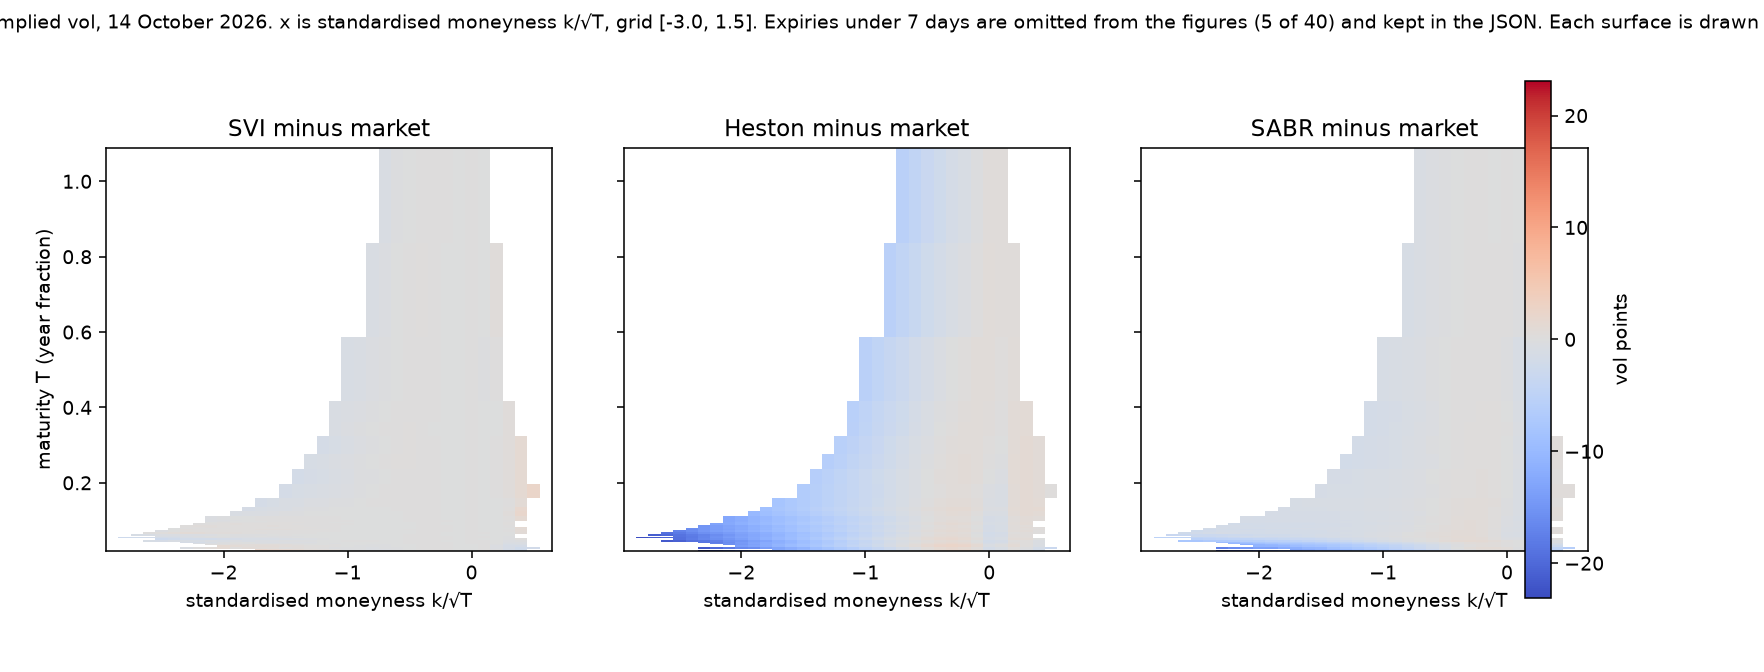
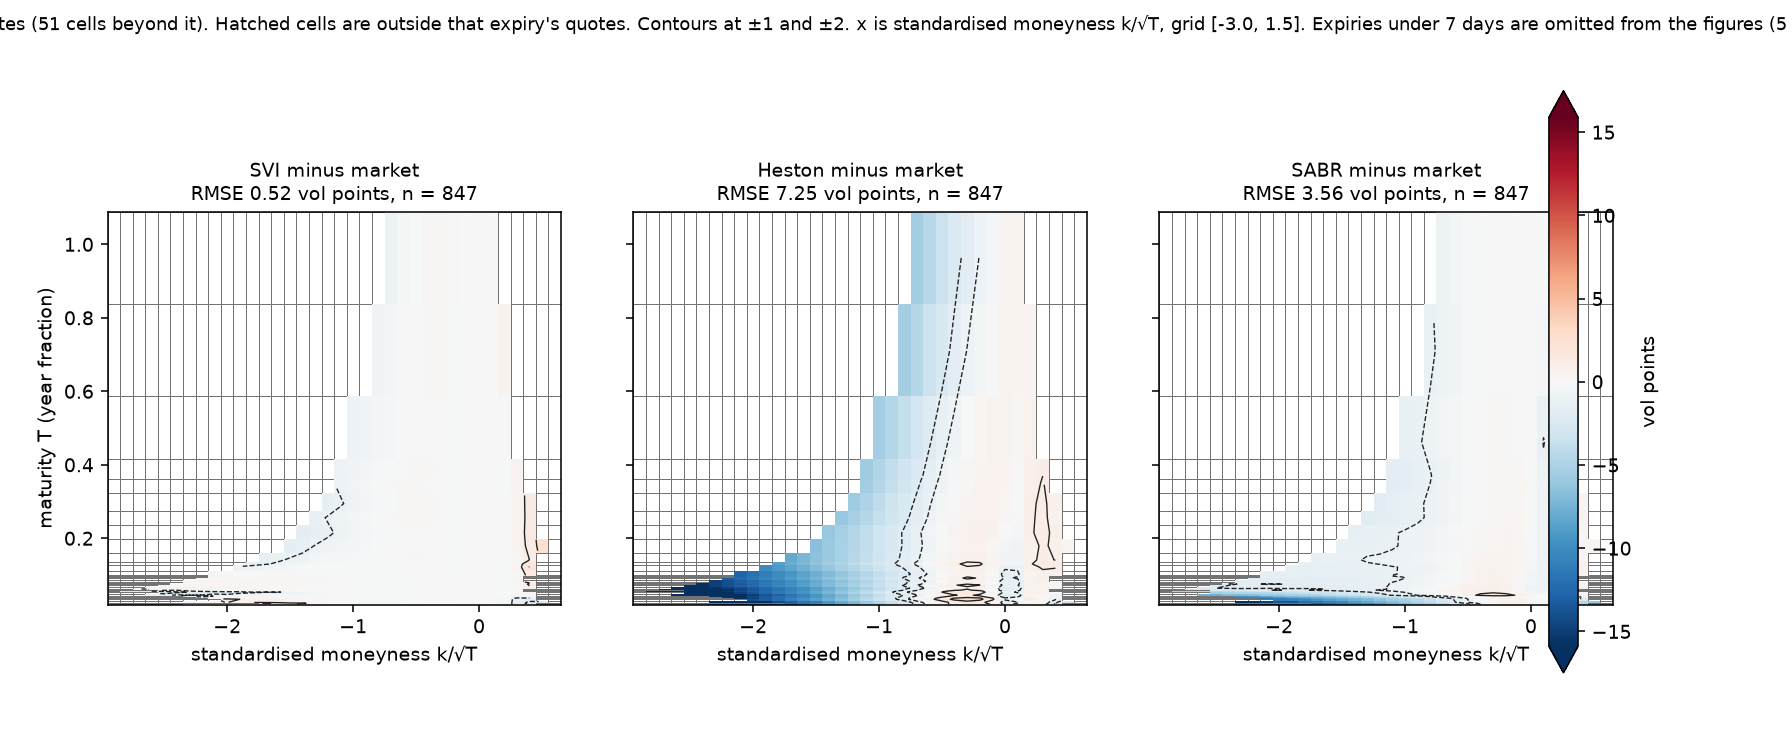
Scale the IV error heatmap to the 98th percentile
The colour limit is the pooled in-quote absolute error on the same
standardised-moneyness grid as the gallery, so a few large cells no
longer wash out the rest. Unquoted cells are hatched.

diff --git a/docs/figures/surfaces_gallery.py b/docs/figures/surfaces_gallery.py
@@ -12,7 +12,9 @@ vertical scale, set to the values actually drawn.
 The market surface in the picture is a light Gaussian smooth along
 ``k / sqrt(T)``. The smooth is display only. The raw quotes are the
 points, and the error tables use the unsmoothed interpolation on the
-full book, including the short expiries.
+full book, including the short expiries. The error heatmap uses the
+same figure domain. Its colour scale is the 98th percentile of the
+absolute in-quote error, not the largest cell.
 
 Heston and SABR are fit on the smile, ``|k| <= 0.4`` and at most 11 strikes
 an expiry, the same cut as the calibration figures. Raw SVI uses every
@@ -45,7 +47,7 @@ import numpy as np
 import pandas as pd
 import plotly.graph_objects as go
 from matplotlib.cm import ScalarMappable
-from matplotlib.colors import Normalize
+from matplotlib.colors import ListedColormap, Normalize
 
 from volsurface import bs, chains
 from volsurface.core.market import market_data_from_snapshot
@@ -85,6 +87,9 @@ M_STEP = 0.1
 IV_LO = 0.05
 IV_HI = 0.90
 IV_CAP = 1.25
+# Error heatmap. The limit is a high percentile of |error|, not the maximum.
+ERROR_PERCENTILE = 98.0
+ERROR_KEYS = ("svi", "heston", "sabr")
 MARK_HIGH = "#9b2335"
 MARK_LOW = "#1f4e79"
 
@@ -772,6 +777,7 @@ def summary_numbers(built: dict) -> dict:
         "implied_vol_axis": [float(display["iv_axis"][0]), float(display["iv_axis"][1])],
         "local_vol_axis": [float(display["local_axis"][0]), float(display["local_axis"][1])],
         "clips": _display_clips(display),
+        "error_heatmap": summarise_errors(error_gaps(display)),
     }
     return numbers
 
@@ -1061,51 +1067,163 @@ def write_pngs(built: dict, fig_dir: Path) -> None:
     _write_error_heatmap(built, fig_dir)
 
 
-def _write_error_heatmap(built: dict, fig_dir: Path) -> None:
-    """Model minus unsmoothed market, on the same domain as the 3D figures."""
-    display = built["display"]
+def error_colour_limit(abs_errors: np.ndarray, percentile: float = ERROR_PERCENTILE) -> float:
+    """Symmetric colour limit from a high percentile of ``|error|``, in vol points.
+
+    A handful of large cells must not set the scale. An empty sample falls
+    back to 1 vol point.
+    """
+    if abs_errors.size == 0:
+        return 1.0
+    limit = float(np.quantile(np.asarray(abs_errors, dtype=float), percentile / 100.0))
+    if not np.isfinite(limit) or limit <= 0.0:
+        return 1.0
+    return limit
+
+
+def error_gaps(display: dict) -> dict[str, np.ndarray]:
+    """Model minus unsmoothed market, in vol points, on the figure grid.
+
+    Cells outside that expiry's quotes, and cells with no finite pair, are NaN.
+    """
     sheets = {sheet.key: sheet for sheet in display["sheets"]}
     market = display["market_raw"]
     quoted = display["quoted"]
-    keys = ("svi", "heston", "sabr")
-    gaps = []
-    for key in keys:
+    gaps = {}
+    for key in ERROR_KEYS:
         gap = 100.0 * (sheets[key].z - market)
-        gap = np.ma.array(gap, mask=~quoted | ~np.isfinite(gap))
-        gaps.append(gap)
-    finite = np.concatenate([gap.compressed() for gap in gaps])
-    limit = 1.0 if finite.size == 0 else float(np.max(np.abs(finite)))
-    if limit == 0.0:
-        limit = 1.0
-    fig, axes = plt.subplots(1, 3, figsize=(12.6, 4.8), sharey=True)
+        gaps[key] = np.where(quoted & np.isfinite(gap), gap, np.nan)
+    return gaps
+
+
+def summarise_errors(gaps: dict[str, np.ndarray]) -> dict:
+    """Percentile colour limit and the in-quote RMSE of each panel."""
+    panels = {}
+    pieces = []
+    for key in ERROR_KEYS:
+        values = gaps[key][np.isfinite(gaps[key])]
+        pieces.append(np.abs(values))
+        panels[key] = {
+            "n": int(values.size),
+            "rmse_vol_points": None if values.size == 0 else float(np.sqrt(np.mean(values**2))),
+            "max_abs_vol_points": None if values.size == 0 else float(np.max(np.abs(values))),
+            "p98_abs_vol_points": None if values.size == 0 else error_colour_limit(np.abs(values)),
+        }
+    pooled = np.concatenate(pieces) if pieces else np.array([], dtype=float)
+    raw = error_colour_limit(pooled)
+    stated = _stated_limit(raw)
+    beyond = int(np.sum(pooled > stated)) if pooled.size else 0
+    return {
+        "percentile": ERROR_PERCENTILE,
+        "limit_vol_points": stated,
+        "limit_raw": raw,
+        "n_errors": int(pooled.size),
+        "n_beyond_limit": beyond,
+        "panels": panels,
+    }
+
+
+def _limit_text(limit: float) -> str:
+    """Digits for the caption. A limit under 0.01 keeps four places so it does not print as 0."""
+    text = f"{limit:.2f}"
+    if float(text) <= 0.0:
+        return f"{limit:.4f}"
+    return text
+
+
+def _stated_limit(raw: float) -> float:
+    """Round the colour limit to the digits the caption prints. Never round it to zero."""
+    stated = float(_limit_text(raw))
+    return stated if stated > 0.0 else raw
+
+
+def _hatch_unquoted(ax, m: np.ndarray, maturities: np.ndarray, show: np.ndarray) -> None:
+    """White hatched cells where the error is not drawn. White itself means zero."""
+    hidden = np.ma.array(np.ones(show.shape, dtype=float), mask=show)
+    cells = ax.pcolormesh(
+        m,
+        maturities,
+        hidden,
+        shading="nearest",
+        cmap=ListedColormap(["white"]),
+        vmin=0.0,
+        vmax=1.0,
+        zorder=1,
+    )
+    cells.set_hatch("////")
+    cells.set_edgecolor("0.45")
+    cells.set_linewidth(0.3)
+
+
+def _write_error_heatmap(built: dict, fig_dir: Path) -> None:
+    """Model minus unsmoothed market, on the same domain as the 3D figures."""
+    display = built["display"]
+    gaps = error_gaps(display)
+    stats = summarise_errors(gaps)
+    limit = float(stats["limit_vol_points"])
     titles = {
         "svi": "SVI minus market",
         "heston": "Heston minus market",
         "sabr": "SABR minus market",
     }
+    levels = [level for level in (-2.0, -1.0, 1.0, 2.0) if abs(level) < limit]
     m = display["m"]
     maturities = display["maturities"]
-    for ax, key, gap in zip(axes, keys, gaps, strict=True):
+    fig, axes = plt.subplots(1, 3, figsize=(12.8, 5.4), sharey=True)
+    mesh = None
+    for ax, key in zip(axes, ERROR_KEYS, strict=True):
+        gap = gaps[key]
+        show = np.isfinite(gap)
         ax.set_facecolor("white")
+        _hatch_unquoted(ax, m, maturities, show)
         mesh = ax.pcolormesh(
             m,
             maturities,
-            gap,
-            cmap="coolwarm",
+            np.ma.array(gap, mask=~show),
+            cmap="RdBu_r",
             vmin=-limit,
             vmax=limit,
             shading="nearest",
+            zorder=2,
         )
+        if levels and np.any(show):
+            ax.contour(
+                m,
+                maturities,
+                gap,
+                levels=levels,
+                colors="#222222",
+                linewidths=0.7,
+                zorder=3,
+            )
+        panel = stats["panels"][key]
+        rmse = panel["rmse_vol_points"]
+        if rmse is None:
+            note = f"n = {panel['n']}"
+        else:
+            note = f"RMSE {rmse:.2f} vol points, n = {panel['n']}"
         ax.set_xlim(float(display["m_view"][0]), float(display["m_view"][1]))
         ax.set_xlabel("standardised moneyness k/√T")
-        ax.set_title(titles[key])
+        ax.set_title(f"{titles[key]}\n{note}", fontsize=10)
     axes[0].set_ylabel("maturity T (year fraction)")
-    fig.colorbar(mesh, ax=axes, fraction=0.046, pad=0.04, label="vol points")
+    extend = "both" if stats["n_beyond_limit"] else "neither"
+    fig.colorbar(mesh, ax=axes, fraction=0.046, pad=0.04, label="vol points", extend=extend)
+    drawn = sorted({abs(level) for level in levels})
+    if drawn:
+        contour_note = " Contours at " + " and ".join(f"±{level:.0f}" for level in drawn) + "."
+    else:
+        contour_note = ""
     fig.suptitle(
-        f"Model minus unsmoothed SPX implied vol, {built['date']}. {_domain_caption(built)}",
-        fontsize=10,
+        f"Model minus unsmoothed SPX implied vol, {built['date']}. "
+        f"Colour saturates at ±{_limit_text(limit)} vol points, the {ERROR_PERCENTILE:.0f}th "
+        f"percentile of |error| inside the quotes "
+        f"({stats['n_beyond_limit']} cells beyond it). "
+        f"Hatched cells are outside that expiry's quotes.{contour_note} "
+        f"{_domain_caption(built)} "
+        "The RMSE on each panel is this grid, not the full-book table.",
+        fontsize=9,
     )
-    fig.subplots_adjust(left=0.06, right=0.90, bottom=0.18, top=0.78, wspace=0.16)
+    fig.subplots_adjust(left=0.06, right=0.90, bottom=0.20, top=0.72, wspace=0.16)
     fig.savefig(fig_dir / "p2_surface_iv_error.png", dpi=140)
     plt.close(fig)
 

diff --git a/tests/test_surface_gallery.py b/tests/test_surface_gallery.py
@@ -75,6 +75,15 @@ def test_display_grid_drops_short_expiries_and_unquoted_wings():
     assert gallery.DISPLAY_MIN_DAYS == 7
 
 
+def test_error_colour_limit_ignores_a_handful_of_large_cells():
+    """The heatmap scale is a high percentile of |error|, not the maximum."""
+    gallery = _gallery()
+    abs_errors = np.concatenate([np.full(98, 1.0), np.array([50.0, 50.0])])
+    limit = gallery.error_colour_limit(abs_errors, percentile=98)
+    assert 1.0 <= limit < 5.0
+    assert limit < float(np.max(abs_errors))
+
+
 def test_extrapolation_mask_is_outside_each_expiry():
     gallery = _gallery()
     pillars = [
@@ -148,6 +157,11 @@ def test_gallery_script_runs_on_a_small_grid(tmp_path):
     local = numbers["display"]["clips"]["dupire_localvol"]
     assert local["n_clipped"] == 0
     assert local["raw_max"] is None or local["hi"] >= local["raw_max"]
+    heat = numbers["display"]["error_heatmap"]
+    assert heat["percentile"] == 98
+    assert heat["limit_vol_points"] > 0.0
+    assert heat["panels"]["svi"]["n"] > 0
+    assert heat["panels"]["svi"]["rmse_vol_points"] > 0.0
 
     fig_dir = tmp_path / "figures"
     html_dir = tmp_path / "surfaces"
